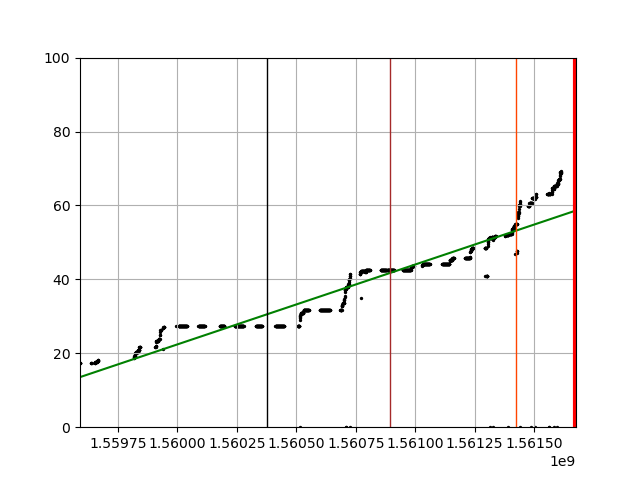
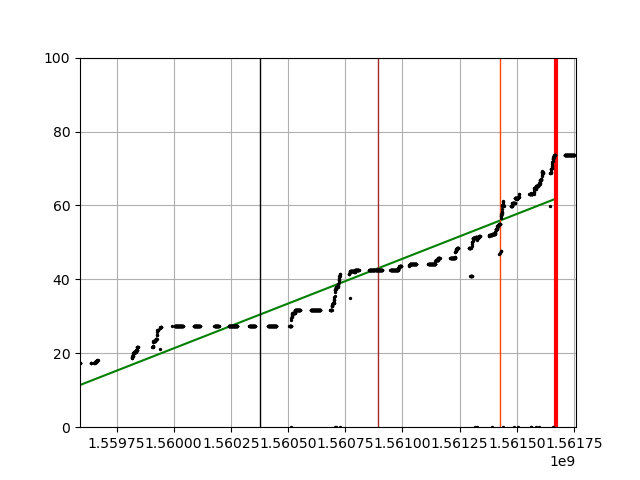
Update changes

Changed region(s): [[0.125, 0.125, 0.9375, 0.9375]]

diff --git a/doc/regression.py b/doc/regression.py
@@ -33,12 +33,12 @@ tt = np.linspace(t0, tF, 100).reshape(-1, 1)
 pf = reg.predict(tt)
 
 plt.plot(tt, pf, 'g')
-plt.scatter(t, percent, s=2, color='k')
 plt.axvline(x=tm, color='k', linewidth=1.0)
 plt.axvline(x=tmm, color='brown', linewidth=1.0)
 plt.axvline(x=tf, color='orangered', linewidth=1.0)
 plt.axvline(x=tF, color='r', linewidth=3.0)
-plt.xlim(np.min(t), tF+3600)
+plt.scatter(t, percent, s=2, color='k', zorder=100)
+plt.xlim(np.min(t), tF+3600*24)
 plt.ylim(0, 100)
 plt.grid(True)
 #plt.show()
